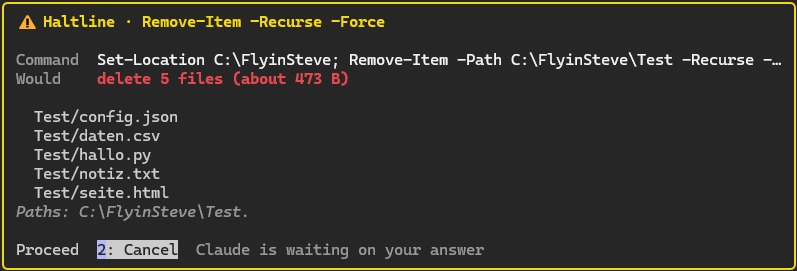
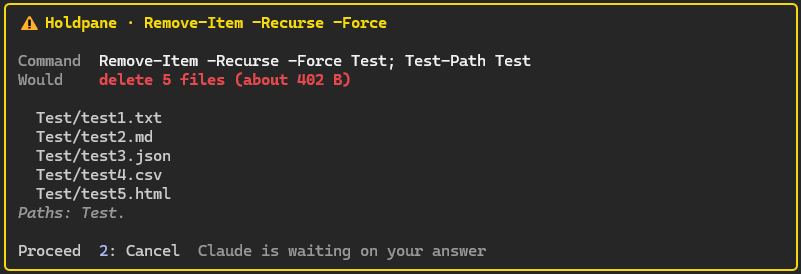
Rename to Holdpane (0.3.2)
Renames the mod from haltline to holdpane: plugin and marketplace entry,
hook module (hooks/holdpane.mjs), pane and deny texts, README, SECURITY,
CONTRIBUTING, NOTICE, issue templates, repository URLs. New pane
screenshot and social preview. Version 0.3.2, CHANGELOG entry added; the
0.3.1 entry stays as history.

Changed region(s): [[0.0, 0.0, 1.0, 1.0]]

diff --git a/README.md b/README.md
@@ -1,14 +1,12 @@
-# Haltline
+# Holdpane
 
-*Formerly `blast-radius-win`.*
-
-![Haltline: holds risky Bash and PowerShell commands before they run](docs/social-preview.png)
+![Holdpane: holds risky Bash and PowerShell commands before they run](docs/social-preview.png)
 
 **See what a command will touch, before it runs.** A [Claude Code](https://claude.com/claude-code) mod that holds risky shell commands, shows what they would change, and waits for your Proceed or Cancel. It works for **Bash and PowerShell**, and it is built to run on **Windows**.
 
 When Claude proposes `rm -rf build`, `Remove-Item -Recurse -Force build` or `git reset --hard`, the command stops. A pane opens with the files it would delete, the count and the size. Cancel is pre-selected, so a stray Enter refuses the command. Claude gets the refusal and the reason.
 
-![The Haltline pane holding a Remove-Item -Recurse -Force command: it lists the five files it would delete (about 473 B) and shows Proceed and Cancel, with Cancel pre-selected](docs/pane.png)
+![The Holdpane pane holding a Remove-Item -Recurse -Force command: it lists the five files it would delete (about 402 B) and shows Proceed and Cancel, with Cancel pre-selected](docs/pane.png)
 
 > Based on [Blast Radius](https://github.com/anthropics/claude-code-playground/tree/main/claude-code/mods/blast-radius) from `anthropics/claude-code-playground` (Apache-2.0). Not an official Anthropic product. See [what changed](#what-is-different-from-the-original).
 
@@ -17,20 +15,18 @@ When Claude proposes `rm -rf build`, `Remove-Item -Recurse -Force build` or `git
 In a terminal session of Claude Code:
 
 ```
-/plugin install haltline --marketplace FlyinSteve/haltline
+/plugin install holdpane --marketplace FlyinSteve/holdpane
 ```
 
 Answer `y` to add the marketplace, then pick a scope (user scope loads it in every session). From a shell:
 
 ```
-claude plugin install haltline --marketplace FlyinSteve/haltline
+claude plugin install holdpane --marketplace FlyinSteve/holdpane
 ```
 
-In the desktop app, where `/plugin` does not run: click **+** next to the prompt box, then **Plugins**, **Add marketplace** with `FlyinSteve/haltline`, then **Add plugin**.
+In the desktop app, where `/plugin` does not run: click **+** next to the prompt box, then **Plugins**, **Add marketplace** with `FlyinSteve/holdpane`, then **Add plugin**.
 
-To remove it: `claude plugin uninstall haltline`.
-
-**Renamed from `blast-radius-win`:** if you installed the old name, remove it first (`claude plugin uninstall blast-radius-win`), or both run and each holds the command. GitHub redirects the old repository address.
+To remove it: `claude plugin uninstall holdpane`.
 
 **Try it:** see [Examples](#examples).
 
@@ -56,7 +52,7 @@ Press `2` to Cancel in each case, and check that Claude reports the refusal.
 | Monitor | the command, read as Bash and as PowerShell |
 | all | command lines over 8000 characters, `-EncodedCommand` and `Remove-Item @splat` are held without being read |
 
-Every other command runs as normal. If a `cd`, `pushd`, `Set-Location` or `git -C` comes first on the line, Haltline measures in that folder.
+Every other command runs as normal. If a `cd`, `pushd`, `Set-Location` or `git -C` comes first on the line, Holdpane measures in that folder.
 
 ## What the pane shows
 
@@ -71,7 +67,7 @@ Every other command runs as normal. If a `cd`, `pushd`, `Set-Location` or `git -
 
 ## What it runs and what it sends
 
-While it measures, Haltline starts only these programs, and only to read: `git` (status, diff, log, `clean -n`, `rev-parse`), Git's `bash`, `find`, `du` and `sleep`, and `powershell.exe` (`pwsh` on macOS and Linux). It sends nothing anywhere: there is no network access, no telemetry, and it stores nothing. A command you answer Proceed to is run by Claude Code, not by Haltline.
+While it measures, Holdpane starts only these programs, and only to read: `git` (status, diff, log, `clean -n`, `rev-parse`), Git's `bash`, `find`, `du` and `sleep`, and `powershell.exe` (`pwsh` on macOS and Linux). It sends nothing anywhere: there is no network access, no telemetry, and it stores nothing. A command you answer Proceed to is run by Claude Code, not by Holdpane.
 
 ## What is different from the original
 
@@ -109,15 +105,15 @@ Known limits:
 
 ## Support
 
-Questions, bugs, and commands that should have been held: [open an issue](https://github.com/FlyinSteve/haltline/issues). Security problems: see [SECURITY.md](SECURITY.md). To help, see [CONTRIBUTING.md](CONTRIBUTING.md); changes are listed in [CHANGELOG.md](CHANGELOG.md).
+Questions, bugs, and commands that should have been held: [open an issue](https://github.com/FlyinSteve/holdpane/issues). Security problems: see [SECURITY.md](SECURITY.md). To help, see [CONTRIBUTING.md](CONTRIBUTING.md); changes are listed in [CHANGELOG.md](CHANGELOG.md).
 
 ## Deutsch (Kurzfassung)
 
-**Haltline** (früher `blast-radius-win`, deinstalliere den alten Namen zuerst) hält riskante Befehle an, bevor sie laufen, und zeigt, was sie treffen würden: `rm -rf`, `Remove-Item -Recurse -Force`, `git reset --hard`, `git clean`, Force-Push und Migrationen. In einer Pane siehst du die betroffenen Dateien mit Anzahl und Größe und entscheidest mit **Proceed** oder **Cancel**. Cancel ist vorausgewählt (Taste 2); Proceed hat bewusst keine Taste.
+**Holdpane** hält riskante Befehle an, bevor sie laufen, und zeigt, was sie treffen würden: `rm -rf`, `Remove-Item -Recurse -Force`, `git reset --hard`, `git clean`, Force-Push und Migrationen. In einer Pane siehst du die betroffenen Dateien mit Anzahl und Größe und entscheidest mit **Proceed** oder **Cancel**. Cancel ist vorausgewählt (Taste 2); Proceed hat bewusst keine Taste.
 
 Gegenüber dem Original (macOS/Linux) funktioniert es mit **Bash und PowerShell unter Windows**: Es findet Git-Bash, `find` und `du` selbst, misst PowerShell-Löschungen nativ (Umlaute, Junctions, `C:\`-Pfade), liest auch mehrzeilige und verschachtelte Befehle und **lehnt einen Befehl ab, wenn der Mod selbst einen Fehler hat**. Die Messung liest nur: Sie führt keine Werkzeuge deines Projekts aus, bevor du geantwortet hast.
 
-Installation im Claude-Code-Terminal: `/plugin install haltline --marketplace FlyinSteve/haltline`
+Installation im Claude-Code-Terminal: `/plugin install holdpane --marketplace FlyinSteve/holdpane`
 
 Es startet nur `git`, `bash`, `find`, `du`, `sleep` und `powershell.exe`, liest nur, sendet nichts und speichert nichts. Es ist ein Sicherheitsnetz, kein Berechtigungssystem: Harte Sperren gehören in die Permission-Regeln. Die Grenzen stehen oben unter *Known limits*.
 

diff --git a/SECURITY.md b/SECURITY.md
@@ -1,15 +1,15 @@
 # Security policy
 
-Haltline is a safety net in front of risky shell commands. It is not a permission system and not a sandbox (see [How far to trust it](README.md#how-far-to-trust-it)).
+Holdpane is a safety net in front of risky shell commands. It is not a permission system and not a sandbox (see [How far to trust it](README.md#how-far-to-trust-it)).
 
 ## What counts as a security problem
 
 Please report it privately if:
 
-- a command that Haltline should hold runs anyway, or runs after you pressed Cancel, interrupted the turn, or let the 10 minutes pass;
-- Haltline itself fails and the command is not refused (a missing `.catch`, an exception that lets the call through);
+- a command that Holdpane should hold runs anyway, or runs after you pressed Cancel, interrupted the turn, or let the 10 minutes pass;
+- Holdpane itself fails and the command is not refused (a missing `.catch`, an exception that lets the call through);
 - measuring runs something it should not (a project's own tool, a script from the folder, a network path);
-- a crafted command line, path or file name makes Haltline run code, hang, or show a wrong "Would" line that hides what the command deletes.
+- a crafted command line, path or file name makes Holdpane run code, hang, or show a wrong "Would" line that hides what the command deletes.
 
 The [known limits](README.md#how-far-to-trust-it) (for example `Invoke-Expression`, `eval`, `find -delete`) are documented and are not security problems; a bug report about them is still welcome as a normal issue.
 

diff --git a/CONTRIBUTING.md b/CONTRIBUTING.md
@@ -1,10 +1,10 @@
 # Contributing
 
-Thanks for helping. Haltline is small on purpose: one hook module, no dependencies, no build step.
+Thanks for helping. Holdpane is small on purpose: one hook module, no dependencies, no build step.
 
 - **Found a command that should be held, or one held by mistake?** Open an issue with the exact command line; the templates ask for what is needed.
 - **Security problems:** see [SECURITY.md](SECURITY.md), not a public issue.
-- **Code changes:** open an issue first for anything bigger than a fix. Keep `hooks/haltline.mjs` free of packages and network access, keep measuring read-only, and keep failing closed (every hook refuses the command when the mod itself fails).
+- **Code changes:** open an issue first for anything bigger than a fix. Keep `hooks/holdpane.mjs` free of packages and network access, keep measuring read-only, and keep failing closed (every hook refuses the command when the mod itself fails).
 - **Before a pull request:** run `claude plugin validate --profile directory .`, and try your change in a live session with `claude --plugin-dir .` on a throwaway folder. Describe what you tried and on which system.
 - **Text:** English in the repository. Do not add personal data, local paths or network addresses, not even in examples.
 

diff --git a/.github/ISSUE_TEMPLATE/bug.md b/.github/ISSUE_TEMPLATE/bug.md
@@ -1,6 +1,6 @@
 ---
 name: Bug
-about: Something in Haltline itself is broken (pane, crash, wrong numbers)
+about: Something in Holdpane itself is broken (pane, crash, wrong numbers)
 labels: bug
 ---
 
@@ -10,6 +10,6 @@ labels: bug
 
 **The command line** (remove anything private)
 
-**Versions**: Haltline, Claude Code (`claude --version`), Windows, Git (`git --version`), terminal or desktop app
+**Versions**: Holdpane, Claude Code (`claude --version`), Windows, Git (`git --version`), terminal or desktop app
 
 **Shell**: Bash / PowerShell / Monitor

diff --git a/.github/ISSUE_TEMPLATE/command-not-caught.md b/.github/ISSUE_TEMPLATE/command-not-caught.md
@@ -14,4 +14,4 @@ If the command ran **after you pressed Cancel**, or the hold failed open, do not
 
 **Is it listed under "Known limits" in the README?** yes / no / not sure
 
-**Versions**: Haltline, Claude Code, Windows, Git
+**Versions**: Holdpane, Claude Code, Windows, Git

diff --git a/CHANGELOG.md b/CHANGELOG.md
@@ -1,5 +1,9 @@
 # Changelog
 
+## 0.3.2
+
+- Renamed to **Holdpane** (`holdpane`). Uninstall the old name first.
+
 ## 0.3.1
 
 - Renamed from `blast-radius-win` to **Haltline** (`haltline`). Uninstall the old name first.

diff --git a/.github/ISSUE_TEMPLATE/held-by-mistake.md b/.github/ISSUE_TEMPLATE/held-by-mistake.md
@@ -12,4 +12,4 @@ labels: false-positive
 
 **What it should have done**
 
-**Versions**: Haltline, Claude Code, Windows, Git
+**Versions**: Holdpane, Claude Code, Windows, Git
